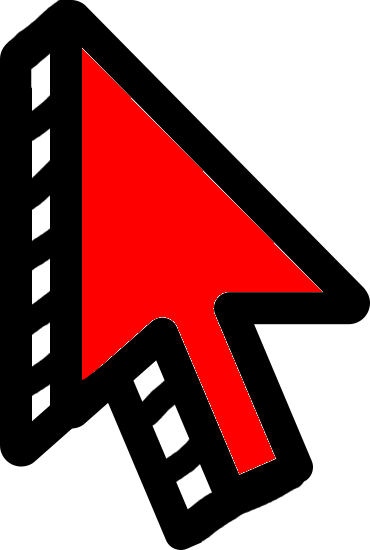
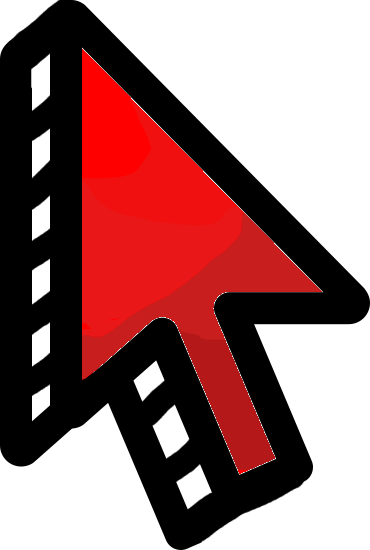
glasses can be filled

Changed region(s): [[0.2081, 0.3709, 0.8622, 0.8655]]

diff --git a/UsU_refactored.py b/UsU_refactored.py
@@ -3,6 +3,7 @@ import os
 import matplotlib.pyplot as plt
 import pygame as pg
 from random import randint
+import cv2
 import numpy as np
 
 pg.init()
@@ -81,6 +82,7 @@ class Glass:
         self.image = pg.image.load(resource_path("graphics/glass.png")).convert_alpha()
         self.image = pg.transform.scale(self.image, (width, height))
         self.rect = self.image.get_rect(center=grid_center)
+        self._is_full = False
     
     def draw(self, screen):
         screen.blit(self.image, self.rect)
@@ -91,6 +93,11 @@ class ColorPicker:
         self.color = color
         self.surface = surface
         self.rect = surface.get_rect(topleft= coordinate)
+        
+    def clicked(self):
+        if self.rect.collidepoint(pg.mouse.get_pos()):
+            return True
+        return False
         
     def draw(self, surface):
         pg.draw.rect(surface, self.color, self.rect, border_radius=8)
@@ -117,6 +124,15 @@ class ColorPickers:
             
     def subPicker(self):
         self.pickers.pop()
+        
+    def color_pick(self):
+        for picker in self.pickers:
+            if picker.clicked():
+                print("clicked")
+                if not hasattr(self, "_picked_color"):
+                    self._picked_color = picker.color
+                    
+            
             
     def draw(self, surface):
         if self.pickers != []:        
@@ -130,17 +146,61 @@ class Simulation:
         self.clock = pg.time.Clock()
         self.running = True
         self.all_colors = []
-        cursor = pg.cursors.Cursor((0, 0), pg.transform.scale(pg.image.load(resource_path("graphics/color_cursor.png")), 
-                                                              (37, 55)))
+        cursor_image = pg.transform.scale(pg.image.load(resource_path("graphics/color_cursor.png")), (37, 55))
+        cursor = pg.cursors.Cursor((0, 0), cursor_image)
         pg.mouse.set_cursor(cursor)
+        self.picked_color = None
         self.colorPickers = ColorPickers(self.all_colors)
         self.grid = Grid()
         self.glasses = []
-
+        
+    # `def tone_change` KISMI AI TARAFINDAN YAPILMIŞTIR.
+    @staticmethod
+    def tone_change(surface, new_color_rgb):
+        # Check if the surface has an alpha (transparency) channel
+        has_alpha = surface.get_masks()[3] != 0
+        if has_alpha:
+            # If so, extract and save the alpha channel for later restoration
+            alpha = pg.surfarray.pixels_alpha(surface).copy()
+        # Get the RGB pixel data from the surface as a numpy array
+        view = pg.surfarray.pixels3d(surface)
+        # Convert the RGB array to BGR format for OpenCV compatibility
+        img_bgr = cv2.cvtColor(view.transpose([1, 0, 2]), cv2.COLOR_RGB2BGR)
+        # Convert the BGR image to HSV color space for easier color manipulation
+        hsv_image = cv2.cvtColor(img_bgr, cv2.COLOR_BGR2HSV)
+        # Define lower and upper bounds for the red color in HSV (red wraps around the hue axis)
+        lower_red1 = np.array([0, 70, 50])
+        upper_red1 = np.array([10, 255, 255])
+        mask1 = cv2.inRange(hsv_image, lower_red1, upper_red1)
+        lower_red2 = np.array([170, 70, 50])
+        upper_red2 = np.array([179, 255, 255])
+        mask2 = cv2.inRange(hsv_image, lower_red2, upper_red2)
+        # Combine both masks to cover the full red hue range
+        red_mask = mask1 + mask2
+        # Convert the new color from RGB to HSV to extract its hue
+        new_color_hsv = cv2.cvtColor(np.uint8([[new_color_rgb[::-1]]]), cv2.COLOR_BGR2HSV)
+        new_hue = new_color_hsv[0][0][0]
+        # Replace the hue of all red pixels with the new hue, preserving saturation and value
+        hsv_image[red_mask > 0, 0] = new_hue
+        # Convert the HSV image back to BGR, then to RGB for Pygame
+        final_rgb = cv2.cvtColor(cv2.cvtColor(hsv_image, cv2.COLOR_HSV2BGR), cv2.COLOR_BGR2RGB)
+        # Create a new Pygame surface from the modified RGB array
+        final_image = pg.surfarray.make_surface(final_rgb.transpose([1, 0, 2]))
+        if has_alpha:
+            # If the original had alpha, convert and restore the alpha channel
+            final_image = final_image.convert_alpha()
+            pg.surfarray.pixels_alpha(final_image)[:, :] = alpha
+        else:
+            # Otherwise, just convert to a standard surface
+            final_image = final_image.convert()
+        # Return the recolored surface
+        return final_image
+    
     def handle_events(self):
         for event in pg.event.get():
             if event.type == pg.QUIT:
                 self.running = False
+                
             if event.type == pg.KEYDOWN:
                 if event.key == pg.K_SPACE:
                     self.grid.multiply()
@@ -152,11 +212,21 @@ class Simulation:
                     if self.colorPickers.pickers != []:
                         self.all_colors.pop()
                         self.colorPickers.subPicker()
-
+            
             if event.type == pg.MOUSEBUTTONDOWN:
-                self.put_glass()
+                self.put_or_update_glass()
+                self.colorPickers.color_pick()  # <-- Add this line
+                if hasattr(self.colorPickers, "_picked_color"):
+                    self.picked_color = self.colorPickers._picked_color
+                    del self.colorPickers._picked_color
+                    cursor_image = self.tone_change(
+                        pg.transform.scale(pg.image.load(resource_path("graphics/color_cursor.png")), (37, 55)),
+                        self.picked_color
+                    )
+                    cursor = pg.cursors.Cursor((0, 0), cursor_image)
+                    pg.mouse.set_cursor(cursor)
 
-    def put_glass(self):
+    def put_or_update_glass(self):
         for grid in self.grid.grids:
             if grid.rect.collidepoint(pg.mouse.get_pos()):
                 if not grid._is_full:
@@ -165,6 +235,15 @@ class Simulation:
                         self.glasses.append(Glass(grid.rect.center, self.grid.cell_height, self.grid.cell_height))
                     else:
                         self.glasses.append(Glass(grid.rect.center, self.grid.cell_width, self.grid.cell_width))
+                else:
+                    for glass in self.glasses:
+                        if glass.rect.center == grid.rect.center and not glass._is_full and self.picked_color:
+                            if self.grid.cell_width >= self.grid.cell_height:
+                                glass_w, glass_h = self.grid.cell_height, self.grid.cell_height
+                            else: glass_w, glass_h = self.grid.cell_width, self.grid.cell_width
+                            glass_img = pg.transform.scale(pg.image.load(resource_path("graphics/filled_glass.png")), (glass_w, glass_h))
+                            glass.image = self.tone_change(glass_img, self.picked_color)
+                    
     def update(self):
         self.grid.update()
 
